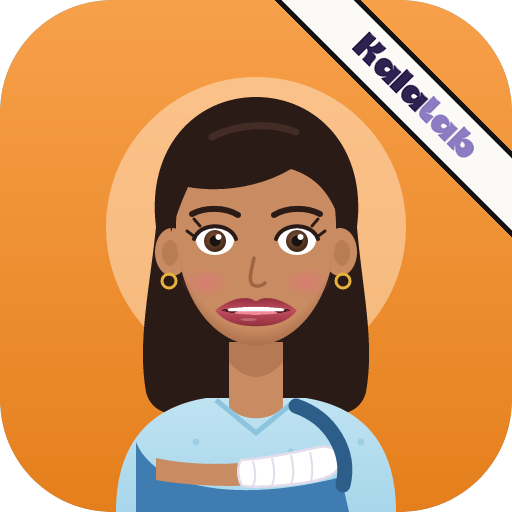
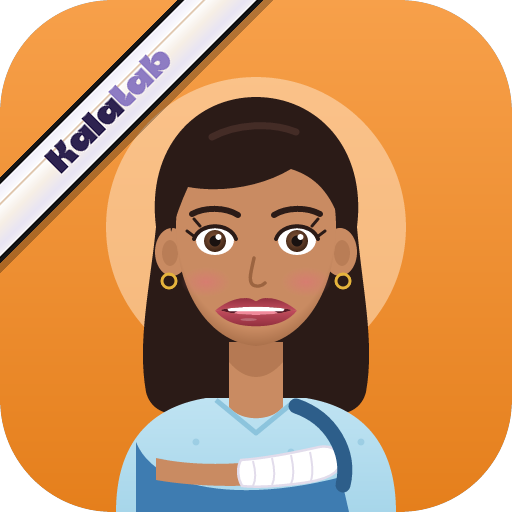
Kali : petites défenses et raccord arrondi de la trompe ; ruban nacré à gauche sur l'icône Mia
Claude-Session: https://claude.ai/code/session_01Nm7TbsHk1BWsYhRA67Mq1a

Changed region(s): [[0.0, 0.0, 1.0, 0.5312]]

diff --git a/sw.js b/sw.js
@@ -1,4 +1,4 @@
-const CACHE = "kalalab-4";
+const CACHE = "kalalab-5";
 const FILES = ["./", "js/icons.js", "js/kali.js", "js/activity.js", "anglais/lessons.js", "fonts/cikutra-black.otf", "fonts/cikutra-bold.otf", "fonts/bagel-fat-one.woff2", "fonts/pixelify-sans-400.woff2", "fonts/pixelify-sans-600.woff2", "fonts/pixelify-sans-700.woff2", "fonts/lexend-400.woff2", "fonts/lexend-600.woff2", "fonts/lexend-700.woff2", "mia.html", "manifest.webmanifest", "mia.webmanifest", "icons/mia-app-192.png", "icons/mia-app-512.png", "icons/mia-app-maskable-512.png", "icons/mia-app-apple-touch.png", "icons/kalalab-192.png", "icons/kalalab-512.png", "icons/kalalab-maskable-512.png", "icons/kalalab-apple-touch.png", "icons/apple-touch-icon.png", "icons/icon-192.png", "icons/icon-512.png", "icons/maskable-512.png", "audio/015661c9541b.mp3", "audio/0196d5fe8d1d.mp3", "audio/02b181526234.mp3", "audio/02c988ea4e95.mp3", "audio/02d11ecb8a9d.mp3", "audio/0aa4db5f2cfe.mp3", "audio/0d1abe43d495.mp3", "audio/0e6535b4b79c.mp3", "audio/0eaad103aca6.mp3", "audio/0ff2932d1dba.mp3", "audio/103466a0973d.mp3", "audio/12b275cda366.mp3", "audio/1596db8cc773.mp3", "audio/1627b67dfaee.mp3", "audio/18fb1361a370.mp3", "audio/1e0da6412269.mp3", "audio/1ec30bfdfe8e.mp3", "audio/1fe36aca9cd2.mp3", "audio/21cb9d0b231a.mp3", "audio/22bfe8a59f8b.mp3", "audio/23a2c049a88c.mp3", "audio/241f18fb3222.mp3", "audio/2504e1c380ad.mp3", "audio/2625a9b74263.mp3", "audio/27fea9a7b824.mp3", "audio/2acc2710e2dd.mp3", "audio/302ec85edc65.mp3", "audio/304e14510d78.mp3", "audio/31e8cc3358c9.mp3", "audio/3b8e6a9b52a6.mp3", "audio/3c26fe7451c2.mp3", "audio/3c84d6dd4845.mp3", "audio/3e88a2f6b2f8.mp3", "audio/3ee08297b153.mp3", "audio/3f893633ad08.mp3", "audio/40ec7cbda7a9.mp3", "audio/421949be6ec6.mp3", "audio/43cfeb420824.mp3", "audio/4553109e2d4e.mp3", "audio/45b686733408.mp3", "audio/47ef54f6d8aa.mp3", "audio/4805f17b2fa3.mp3", "audio/4a61ff4c3016.mp3", "audio/4b5891b3234d.mp3", "audio/4bcaea645d3f.mp3", "audio/518efafb76a4.mp3", "audio/52e37432d14f.mp3", "audio/533b90f52f51.mp3", "audio/5469937b6d34.mp3", "audio/552aecc32490.mp3", "audio/55dacb9ed833.mp3", "audio/5a3fbad65b86.mp3", "audio/5bbae0c15456.mp3", "audio/5fdb1398a051.mp3", "audio/618cfde82af0.mp3", "audio/619708dc3bae.mp3", "audio/66a58cdc8d9e.mp3", "audio/692535a5159c.mp3", "audio/6b04d4e6cf92.mp3", "audio/6ed2320b969b.mp3", "audio/6f31e1e884b5.mp3", "audio/7075cfdc0dbb.mp3", "audio/722f552d3d30.mp3", "audio/73428cc57f7b.mp3", "audio/74609048d3b2.mp3", "audio/75b62e3f660c.mp3", "audio/7745ada9c737.mp3", "audio/77c42d80bb35.mp3", "audio/788ab0713f35.mp3", "audio/78ed3755e31f.mp3", "audio/7b1d54c2c491.mp3", "audio/7d718543e5a1.mp3", "audio/7dc1fc4a0d39.mp3", "audio/7fa6cda04fe0.mp3", "audio/81eb6f3eb64e.mp3", "audio/87a867572ac9.mp3", "audio/8b8b1e6b7504.mp3", "audio/8dd37ec1cbea.mp3", "audio/8e6b7ebf35b7.mp3", "audio/900db8413b08.mp3", "audio/924187de6ccf.mp3", "audio/92c98516d6ca.mp3", "audio/9387284f5971.mp3", "audio/96088c12ba4f.mp3", "audio/98687beda626.mp3", "audio/99290fabc182.mp3", "audio/9a465b56b8c9.mp3", "audio/9d5f7606cf34.mp3", "audio/9e15d86ec3d3.mp3", "audio/a201acc4cd87.mp3", "audio/a332c49bd9d8.mp3", "audio/a342630af823.mp3", "audio/a353e2c1ccdc.mp3", "audio/a4a21d3e2815.mp3", "audio/a533e121a1ff.mp3", "audio/a55dc94fc3c1.mp3", "audio/a583986cccde.mp3", "audio/a958c34e6ea1.mp3", "audio/a9765309148e.mp3", "audio/aba40032668b.mp3", "audio/acbdea6ec304.mp3", "audio/acc09b80296a.mp3", "audio/ae62ad22fda5.mp3", "audio/b065e2b55560.mp3", "audio/b20aea95414d.mp3", "audio/b49c98d64978.mp3", "audio/b522dbac7e61.mp3", "audio/b53e0ffafa2c.mp3", "audio/b86f7b0d03d0.mp3", "audio/b9d3a98118f7.mp3", "audio/bafc549bafc0.mp3", "audio/bbe623c0d3c7.mp3", "audio/be3e12518a1a.mp3", "audio/c100ac6d35da.mp3", "audio/c30cf0215ea4.mp3", "audio/c4da53ae700a.mp3", "audio/c64d72f6f07e.mp3", "audio/c77057dbf22f.mp3", "audio/c8237127f08a.mp3", "audio/ca825b34d79f.mp3", "audio/cb5f4b50b290.mp3", "audio/ccffab1a0d4c.mp3", "audio/ce0e488b2fa3.mp3", "audio/d08016bf8235.mp3", "audio/d08876dee591.mp3", "audio/d30b021c9a97.mp3", "audio/d5c9cb3fbe71.mp3", "audio/d73d30d83e9b.mp3", "audio/d9c3cbcc50bd.mp3", "audio/dadab812860d.mp3", "audio/dc167dc7a942.mp3", "audio/de79cec48b8b.mp3", "audio/e0ebb6e38dad.mp3", "audio/e1693f3735a9.mp3", "audio/e19482ad32bc.mp3", "audio/e6e804a6444e.mp3", "audio/e86219839be4.mp3", "audio/e87d4413af2d.mp3", "audio/ea59d6737e1a.mp3", "audio/ee3243976f48.mp3", "audio/ef2a2411f512.mp3", "audio/ef8cab0cc76a.mp3", "audio/efcb319e5014.mp3", "audio/f327f075d1c8.mp3", "audio/f4dc24a7ea4c.mp3", "audio/f932065d8693.mp3", "audio/f996442d16b2.mp3", "audio/fa9371ff033c.mp3", "audio/fbc915819c5b.mp3", "audio/fd9159b1a18b.mp3", "audio/fe1c072ddeaf.mp3", "videos/covers/replique1.jpg", "videos/covers/replique2.jpg", "videos/covers/replique3.jpg", "videos/covers/replique4.jpg", "videos/covers/replique5.jpg", "videos/covers/replique6.jpg", "videos/covers/replique7.jpg", "videos/covers/son01-mini.jpg", "videos/covers/son01.jpg", "videos/covers/son02-mini.jpg", "videos/covers/son02.jpg", "videos/covers/son03-mini.jpg", "videos/covers/son03.jpg", "videos/covers/son04-mini.jpg", "videos/covers/son04.jpg", "videos/covers/son05-mini.jpg", "videos/covers/son05.jpg", "videos/covers/son06-mini.jpg", "videos/covers/son06.jpg", "videos/covers/son07-mini.jpg", "videos/covers/son07.jpg", "videos/covers/son08-mini.jpg", "videos/covers/son08.jpg", "videos/covers/son09-mini.jpg", "videos/covers/son09.jpg", "videos/covers/son10-mini.jpg", "videos/covers/son10.jpg"];
 self.addEventListener("install", (e) => {
   e.waitUntil(caches.open(CACHE).then((c) => c.addAll(FILES)).then(() => self.skipWaiting()));

diff --git a/design/kali.js b/design/kali.js
@@ -2,6 +2,7 @@
 // each with its own animation (CSS classes .o-<outfit> on the <svg>, see KALI_CSS).
 const KALI_INK = "#141414";
 const KALI = { body: "#c9b8f0", inner: "#f7c9d9", light: "#fbeee0", bow: "#7b68c4", cheek: "#ff9fb8", butter: "#ffd27a", blue: "#a9c2f5", mint: "#a9e0c8", peach: "#f7b9a0", rose: "#f5a3bd" };
+let KALI_TUSKS = true;   // small cute tusks
 const KALI_OUTFITS = ["bonjour", "dj", "lecture", "diplomee", "sport", "dodo", "detective", "fete"];
 
 function kali(outfit = "bonjour", label = "Kali, l'éléphante de KalaLab") {
@@ -87,10 +88,12 @@ function kali(outfit = "bonjour", label = "Kali, l'éléphante de KalaLab") {
       ${head}
     </g>
     ${arms}
-    <g class="head"><g class="trunk">
-      <!-- open at the top (flat ends), so it grows out of the face; only the tip is rounded -->
-      <path d="M100 99 C100 126, 104 140, 120 138 C132 136, 138 124, 132 116" fill="none" stroke="${I}" stroke-width="20" stroke-linecap="butt"/><circle cx="132" cy="116" r="10" fill="${I}"/>
-      <path d="M100 96 L100 99 C100 126, 104 140, 120 138 C132 136, 138 124, 132 116" fill="none" stroke="${C.body}" stroke-width="12.5" stroke-linecap="butt"/><circle cx="132" cy="116" r="6.25" fill="${C.body}"/>
+    <g class="head">${KALI_TUSKS ? `<g class="tusks"><path d="M91 111 C88 116, 83 120, 78.5 119.5 C81 124.5, 88 124, 92.5 118.5 Z" fill="#fffaf0" stroke="${I}" stroke-width="3" stroke-linejoin="round"/>
+      <path d="M109 111 C112 116, 117 120, 121.5 119.5 C119 124.5, 112 124, 107.5 118.5 Z" fill="#fffaf0" stroke="${I}" stroke-width="3" stroke-linejoin="round"/></g>` : ""}<g class="trunk">
+      <!-- open at the top, so it grows out of the face; its two sides curve softly into the cheeks; only the tip is rounded -->
+      <path d="M100 105 C100 126, 104 140, 120 138 C132 136, 138 124, 132 116" fill="none" stroke="${I}" stroke-width="20" stroke-linecap="butt"/><circle cx="132" cy="116" r="10" fill="${I}"/>
+      <path d="M100 101 L100 105 C100 126, 104 140, 120 138 C132 136, 138 124, 132 116" fill="none" stroke="${C.body}" stroke-width="12.5" stroke-linecap="butt"/><circle cx="132" cy="116" r="6.25" fill="${C.body}"/>
+      <path d="M86.5 101.5 C89 102.5, 90.15 104.5, 90.15 109 M113.5 101.5 C111 102.5, 109.85 104.5, 109.85 109" fill="none" stroke="${I}" stroke-width="3.75" stroke-linecap="round"/>
       <path d="M104 122 h6 M107 131 h6" stroke="${I}" stroke-width="2.5" stroke-linecap="round" opacity=".5"/></g></g>
     ${front}
   </g>

diff --git a/js/kali.js b/js/kali.js
@@ -2,6 +2,7 @@
 // each with its own animation (CSS classes .o-<outfit> on the <svg>, see KALI_CSS).
 const KALI_INK = "#141414";
 const KALI = { body: "#c9b8f0", inner: "#f7c9d9", light: "#fbeee0", bow: "#7b68c4", cheek: "#ff9fb8", butter: "#ffd27a", blue: "#a9c2f5", mint: "#a9e0c8", peach: "#f7b9a0", rose: "#f5a3bd" };
+let KALI_TUSKS = true;   // small cute tusks
 const KALI_OUTFITS = ["bonjour", "dj", "lecture", "diplomee", "sport", "dodo", "detective", "fete"];
 
 function kali(outfit = "bonjour", label = "Kali, l'éléphante de KalaLab") {
@@ -87,10 +88,12 @@ function kali(outfit = "bonjour", label = "Kali, l'éléphante de KalaLab") {
       ${head}
     </g>
     ${arms}
-    <g class="head"><g class="trunk">
-      <!-- open at the top (flat ends), so it grows out of the face; only the tip is rounded -->
-      <path d="M100 99 C100 126, 104 140, 120 138 C132 136, 138 124, 132 116" fill="none" stroke="${I}" stroke-width="20" stroke-linecap="butt"/><circle cx="132" cy="116" r="10" fill="${I}"/>
-      <path d="M100 96 L100 99 C100 126, 104 140, 120 138 C132 136, 138 124, 132 116" fill="none" stroke="${C.body}" stroke-width="12.5" stroke-linecap="butt"/><circle cx="132" cy="116" r="6.25" fill="${C.body}"/>
+    <g class="head">${KALI_TUSKS ? `<g class="tusks"><path d="M91 111 C88 116, 83 120, 78.5 119.5 C81 124.5, 88 124, 92.5 118.5 Z" fill="#fffaf0" stroke="${I}" stroke-width="3" stroke-linejoin="round"/>
+      <path d="M109 111 C112 116, 117 120, 121.5 119.5 C119 124.5, 112 124, 107.5 118.5 Z" fill="#fffaf0" stroke="${I}" stroke-width="3" stroke-linejoin="round"/></g>` : ""}<g class="trunk">
+      <!-- open at the top, so it grows out of the face; its two sides curve softly into the cheeks; only the tip is rounded -->
+      <path d="M100 105 C100 126, 104 140, 120 138 C132 136, 138 124, 132 116" fill="none" stroke="${I}" stroke-width="20" stroke-linecap="butt"/><circle cx="132" cy="116" r="10" fill="${I}"/>
+      <path d="M100 101 L100 105 C100 126, 104 140, 120 138 C132 136, 138 124, 132 116" fill="none" stroke="${C.body}" stroke-width="12.5" stroke-linecap="butt"/><circle cx="132" cy="116" r="6.25" fill="${C.body}"/>
+      <path d="M86.5 101.5 C89 102.5, 90.15 104.5, 90.15 109 M113.5 101.5 C111 102.5, 109.85 104.5, 109.85 109" fill="none" stroke="${I}" stroke-width="3.75" stroke-linecap="round"/>
       <path d="M104 122 h6 M107 131 h6" stroke="${I}" stroke-width="2.5" stroke-linecap="round" opacity=".5"/></g></g>
     ${front}
   </g>
